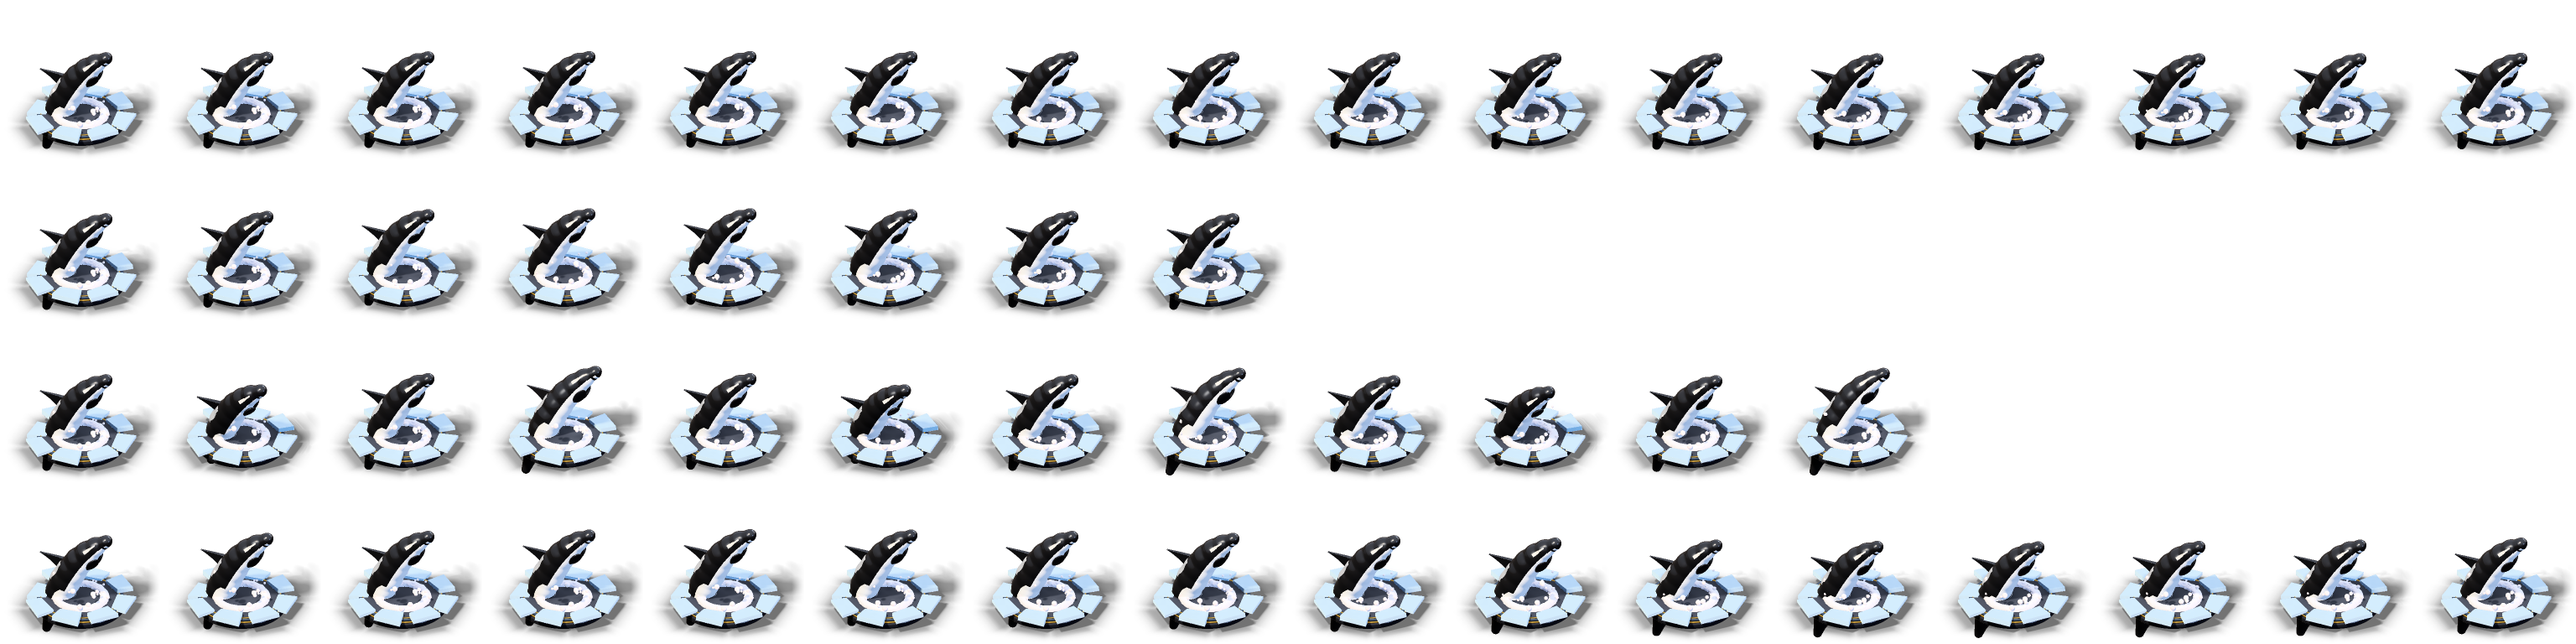
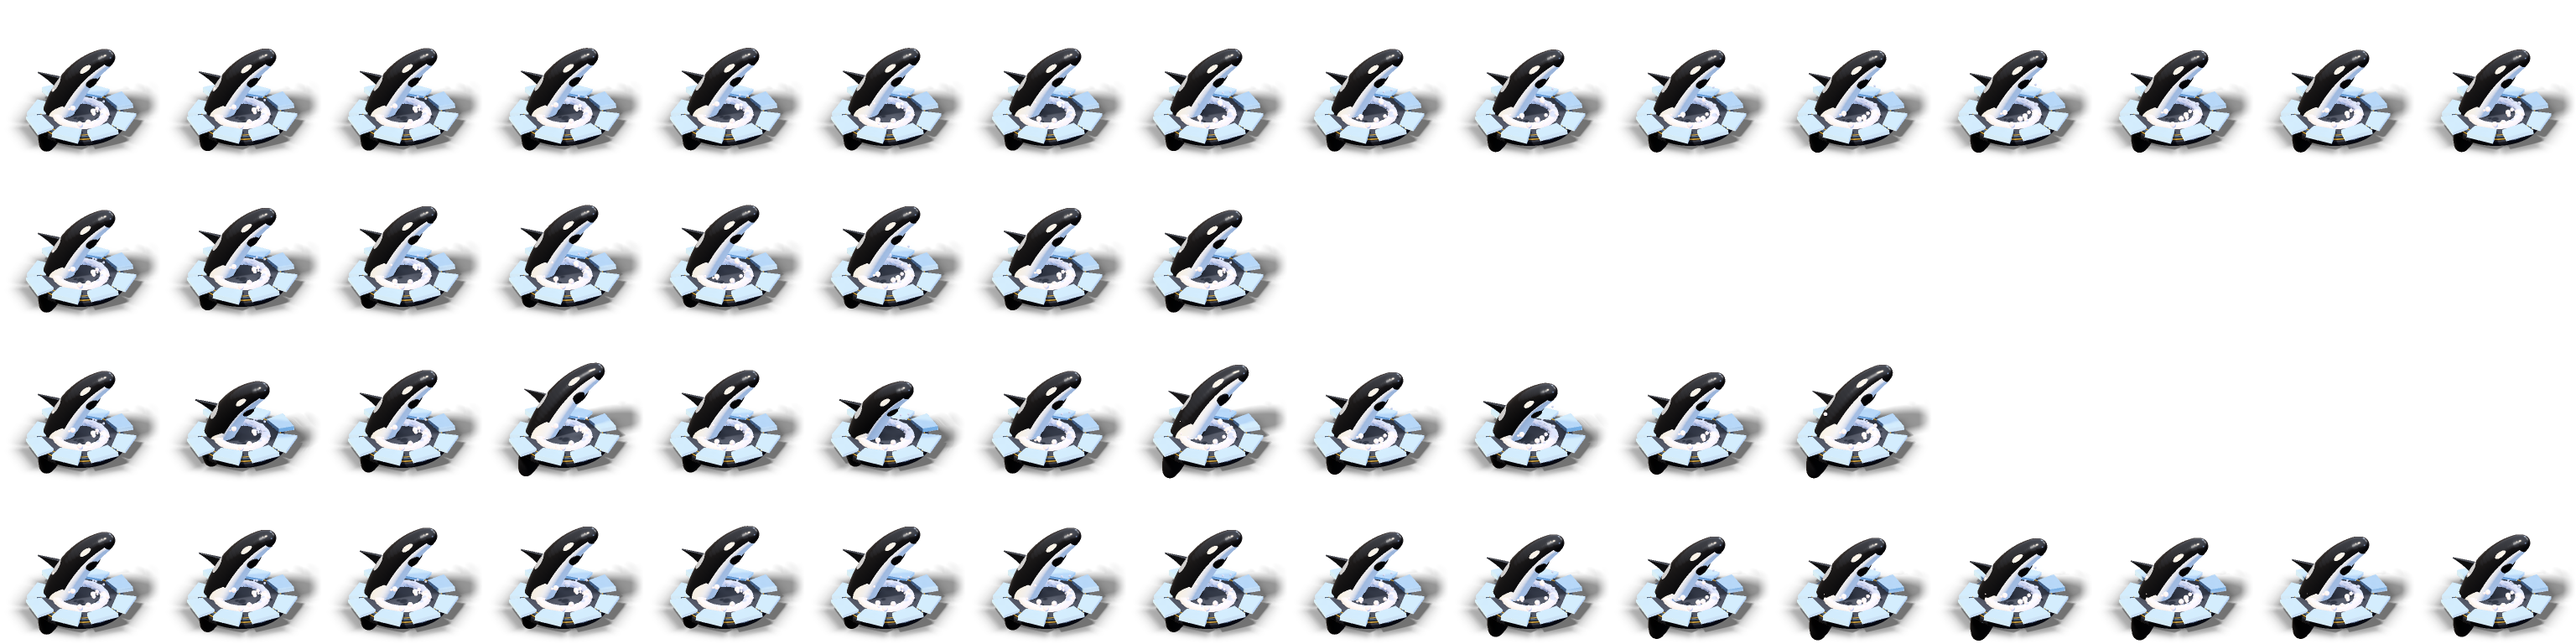
Banquise: the orca rebuilt as one smooth body (a smooth union of tapered pieces along the spine, no rings), a rounded snout instead of a ball, the oval white patch behind the eye, the eye, the white belly and flank, the grey saddle

diff --git a/app/tools/sprites/arctic.py b/app/tools/sprites/arctic.py
@@ -21,7 +21,7 @@ The human is never part of a set.
 """
 import math
 import torch
-from render import X as X_, Scene, Mat, T, RX, RY, RZ, srgb, vec, sd_plane_cut, sd_sphere, sd_ellipsoid, sd_box, sd_capsule, sd_cylinder, \
+from render import DEV, X as X_, Scene, Mat, T, RX, RY, RZ, srgb, vec, sd_plane_cut, sd_sphere, sd_ellipsoid, sd_box, sd_capsule, sd_cylinder, \
     sd_torus, sd_cone, fbm
 from models import base, BASE_TOP, TAU, wave, glow
 from legends import base_pose, held, skin
@@ -567,24 +567,64 @@ def orca(anim, t, side):
     rise = {"win": 0.06 * math.sin(TAU * t), "move": 0.05 * math.sin(math.pi * t)}.get(anim, 0.012 * math.sin(TAU * t))
     roll = 0.25 * math.sin(TAU * 3 * t) if anim == "blocked" else 0.0
     Xr = RY(YAW) * T(0, BASE_TOP + rise, 0) * RZ(roll)
-    # the spine: from the flukes under the water up to the snout
-    spine = bezier((0, -0.35, -0.3), (0, 0.05, -0.2), (0, 0.42, -0.05), (0, 0.6, 0.22), 10)
-    radii = [0.035, 0.06, 0.09, 0.115, 0.125, 0.12, 0.11, 0.095, 0.075, 0.045]
-    for i in range(len(spine) - 1):
-        p0, p1 = spine[i], spine[i + 1]
-        mid = tuple((p0[k] + p1[k]) / 2 for k in range(3))
-        tg = tuple(p1[k] - p0[k] for k in range(3))
-        half = 0.5 * math.sqrt(sum(v * v for v in tg))
-        r = (radii[i] + radii[i + 1]) / 2
-        sc.add(sd_capsule((0, 0, -half), (0, 0, half), radii[i], radii[i + 1]), orca_mat(i / 9, (i + 1) / 9, half), Xr * along(mid, tg), blend=0.03)
-    # the head: rounded melon at the snout
-    hp, ht = spine[-1], tuple(spine[-1][k] - spine[-2][k] for k in range(3))
-    sc.add(sd_ellipsoid(0.05, 0.045, 0.06), orca_mat(0.92, 1.0, 0.06), Xr * along(hp, ht), blend=0.04)
+    # one smooth body along the spine: from the flukes under the water up to the snout,
+    # the radius a smooth function of the position (no segments, no knob at the head)
+    N = 28
+    spine = bezier((0, -0.35, -0.3), (0, 0.05, -0.2), (0, 0.42, -0.05), (0, 0.62, 0.24), N)
+    def rad(u):
+        return 0.13 * math.sin(math.pi * (0.06 + 0.8 * u)) ** 0.6 * (1 - 0.3 * u) + 0.01
+    radii = [rad(i / (N - 1)) for i in range(N)]
+    radii[-1] = radii[-2] * 0.85                                       # the rounded snout
+    P = torch.tensor(spine, dtype=torch.float32, device=DEV)
+    RR = torch.tensor(radii, dtype=torch.float32, device=DEV)
+
+    def body(q):
+        d = torch.full_like(q[:, 0], 1e9)
+        for i in range(N - 1):
+            a0, a1 = P[i], P[i + 1]
+            ba = a1 - a0
+            h = (((q - a0) @ ba) / (ba @ ba)).clamp(0, 1)
+            r = RR[i] + (RR[i + 1] - RR[i]) * h
+            di = torch.linalg.norm(q - a0 - ba * h[:, None], dim=-1) - r
+            k = 0.03                                                    # a smooth union: no ridge between the pieces
+            hh = (0.5 + 0.5 * (di - d) / k).clamp(0, 1)
+            d = di + (d - di) * hh - k * hh * (1 - hh)
+        return d
+
+    def body_pat(pl, pw, n):
+        # u along the body (0 tail → 1 snout) and `up` around it, from the nearest spine point
+        best = torch.full_like(pl[:, 0], 1e9)
+        u = torch.zeros_like(best)
+        up = torch.zeros_like(best)
+        for i in range(N - 1):
+            a0, a1 = P[i], P[i + 1]
+            ba = a1 - a0
+            h = (((pl - a0) @ ba) / (ba @ ba)).clamp(0, 1)
+            off = pl - a0 - ba * h[:, None]
+            dist = torch.linalg.norm(off, dim=-1)
+            m = dist < best
+            best = torch.where(m, dist, best)
+            t_ = ba / torch.linalg.norm(ba)
+            yv = torch.tensor([0.0, 1.0, 0.0], device=DEV) - t_ * t_[1]
+            yv = yv / torch.linalg.norm(yv)
+            u = torch.where(m, (i + h) / (N - 1), u)
+            up = torch.where(m, (off @ yv) / (dist + 1e-6), up)
+        xv = pl[:, 0] / (best + 1e-6)
+        belly = ((up < -0.3) & (u > 0.4) & (u < 0.985)).float()
+        sweep = torch.sin(((u - 0.16) / 0.28).clamp(0, 1) * math.pi)
+        flank = ((up < -0.15 + 0.5 * sweep) & (u > 0.16) & (u < 0.44)).float() * (xv.abs() > 0.2).float()
+        patch = ((((u - 0.83) / 0.055) ** 2 + ((up - 0.3) / 0.2) ** 2) < 1).float() * (xv.abs() > 0.3).float()   # the oval eye patch
+        saddle = ((((u - 0.52) / 0.07) ** 2 + ((up - 0.96) / 0.2) ** 2) < 1).float()
+        eye = ((((u - 0.875) / 0.012) ** 2 + ((up - 0.05) / 0.06) ** 2) < 1).float() * (xv.abs() > 0.5).float()
+        white = (belly + flank + patch).clamp(0, 1) * (1 - eye)
+        black = srgb("#0b0c0f") * (1 - saddle)[:, None] + srgb("#6e737c") * saddle[:, None]
+        return {"albedo": black * (1 - white)[:, None] + srgb("#f0f0ec") * white[:, None]}
+    sc.add(body, Mat("#0b0c0f", rough=0.2, clearcoat=0.9, pattern=body_pat), Xr)
     # the dorsal fin on the back at the widest point, the paddles, the flukes
-    fp, ft = spine[5], tuple(spine[6][k] - spine[4][k] for k in range(3))
+    fp, ft = spine[14], tuple(spine[15][k] - spine[13][k] for k in range(3))
     black = Mat("#0b0c0f", rough=0.2, clearcoat=0.9)
     sc.add(sd_thin_fin(0.2, 0.11, 0.014), black, Xr * along(fp, ft) * T(0, 0.1, 0))
-    pp, pt = spine[7], tuple(spine[8][k] - spine[6][k] for k in range(3))
+    pp, pt = spine[20], tuple(spine[21][k] - spine[19][k] for k in range(3))
     for sgn in (-1, 1):
         sc.add(sd_ellipsoid(0.014, 0.05, 0.075), black, Xr * along(pp, pt) * T(0.09 * sgn, -0.07, 0) * RZ(-0.9 * sgn) * T(0, -0.04, 0) * RX(-0.3))
     # the spray: droplets thrown up around the body
